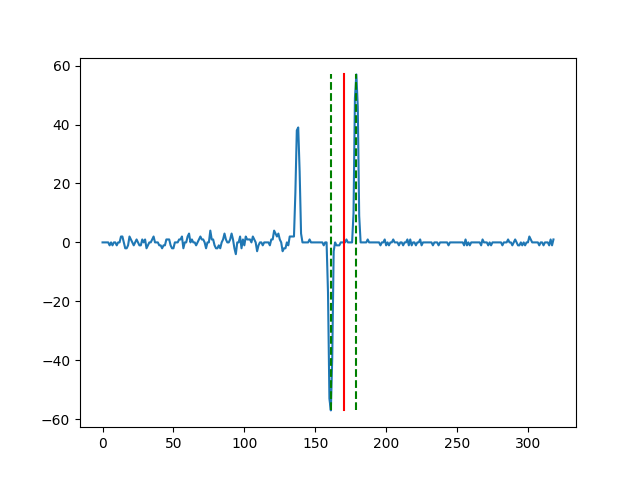
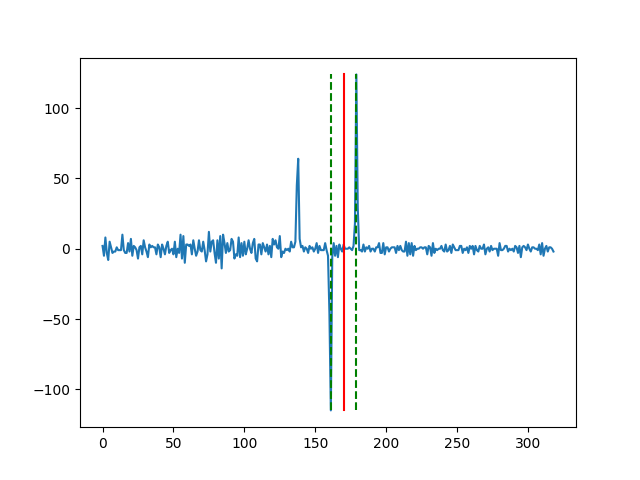
line following init + PID delta time update

diff --git a/pid_controller.py b/pid_controller.py
@@ -14,22 +14,22 @@ class PIController:
     def handle_proportional(self, error):
         return self.proportional_constant * error
 
-    def handle_integral(self, error):
+    def handle_integral(self, error, delta_time):
         if self.windup_limit:
             lower_than_windup_limit = (abs(self.integral_sum) < self.windup_limit)
             negative_error = ((error > 0) != self.integral_sum > 0)
 
         if self.windup_limit is None or lower_than_windup_limit or negative_error:
-            self.integral_sum += error
+            self.integral_sum += error * delta_time
             
         return self.integral_constant * self.integral_sum
 
     def reset(self):
         self.integral_sum = 0
 
-    def get_value(self, error):
+    def get_value(self, error, delta_time=1):
         p = self.handle_proportional(error)
-        i = self.handle_integral(error)
+        i = self.handle_integral(error, delta_time)
         logger.debug(f"P: {p}, I: {i:.2f}")
         return p + i
 

diff --git a/_testing_hw/test_line_following/test_line_find.py b/_testing_hw/test_line_following/test_line_find.py
@@ -10,17 +10,17 @@ resized_img = cv2.resize(img, (320, 240))
 gray = cv2.cvtColor(resized_img, cv2.COLOR_BGR2GRAY)
 blurred = cv2.blur(gray, (3,3))
 
-# row = gray[180].astype(np.int32)
-# diff = np.diff(row)
-# x = np.arange(len(diff))
-# plt.plot(x, diff)
-# plt.savefig("not_blurred.png")
-
-row = blurred[180].astype(np.int32)
+row = gray[180].astype(np.int32)
 diff = np.diff(row)
 x = np.arange(len(diff))
 plt.plot(x, diff)
-plt.savefig("blurred.png")
+plt.savefig("not_blurred.png")
+
+# row = blurred[180].astype(np.int32)
+# diff = np.diff(row)
+# x = np.arange(len(diff))
+# plt.plot(x, diff)
+# plt.savefig("blurred.png")
 
 max_diff = np.amax(diff, 0)
 min_diff = np.amin(diff, 0)

diff --git a/line_following.py b/line_following.py
@@ -1,0 +1,18 @@
+#!/usr/bin/python3
+import time
+import cv2
+import numpy as np
+import img_server
+from pid_controller import PIController
+from robot import Robot
+
+class LineFollwing:
+    def __init__(self, robot):
+        self.robot = robot
+        #line following parameteres
+        self.check_row = 180
+        self.diff_threshold = 10
+        self.center = 160
+        self.following = False
+        self.speed = 50
+        

diff --git a/face_tracking.py b/face_tracking.py
@@ -1,6 +1,4 @@
 #!/usr/bin/python3
-from curses.textpad import rectangle
-from operator import itemgetter
 import time
 import cv2
 import os
